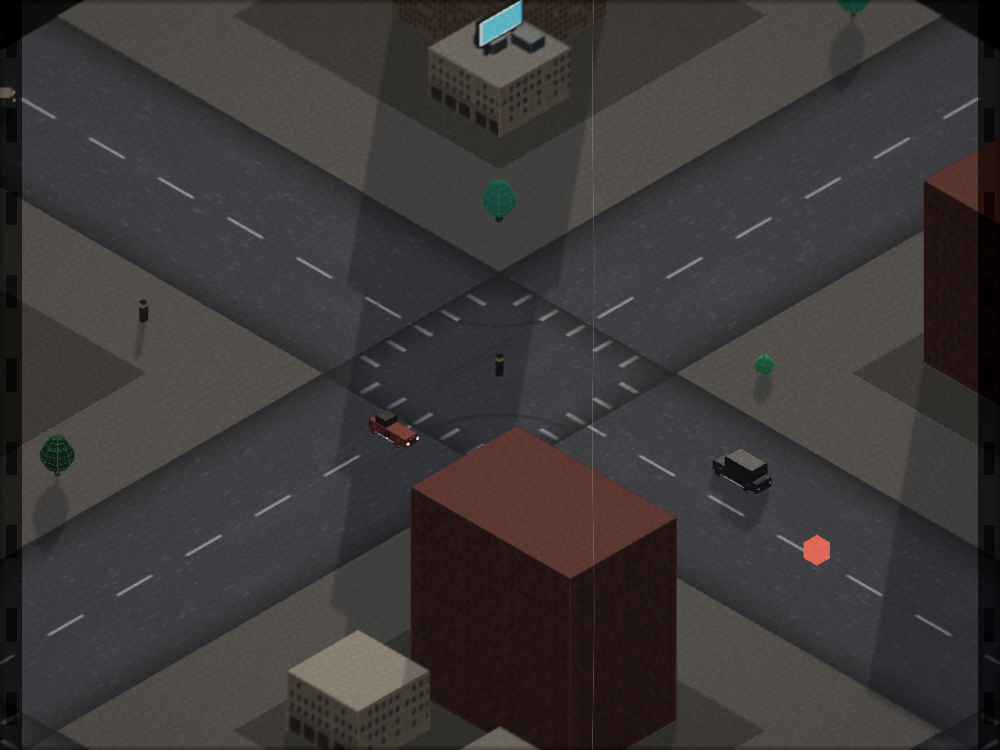
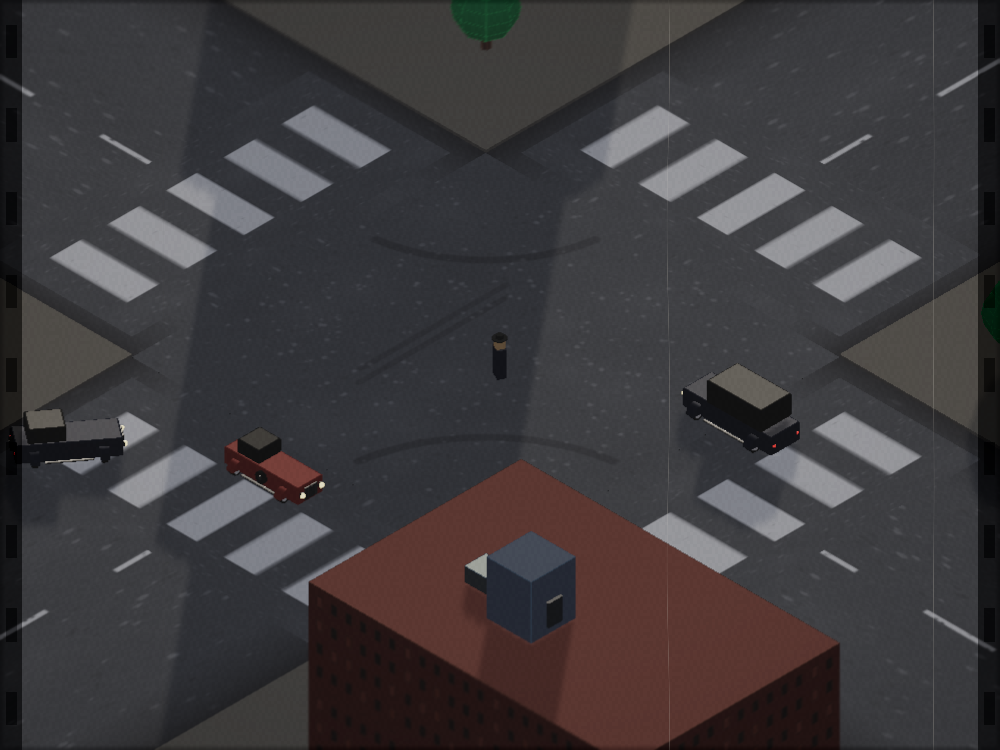
feat: add crosswalk feature and enhance road textures
- Introduced crosswalk creation in RoadBuilder3D for improved pedestrian navigation.
- Updated RoadTextureGenerator to include crosswalk textures and refined existing road textures for better visual fidelity.
- Enhanced tests to validate the addition of crosswalk textures and ensure proper initialization of texture assets.

diff --git a/src/systems/RoadTextureGenerator.js b/src/systems/RoadTextureGenerator.js
@@ -11,11 +11,12 @@ export const RoadTextureGenerator = {
         if (this.textures.size > 0) return;
         this.textures.set('straight', this.createCanvasTexture('straight'));
         this.textures.set('intersection', this.createCanvasTexture('intersection'));
+        this.textures.set('crosswalk', this.createCanvasTexture('crosswalk'));
     },
 
     getTexture(type) {
-        if (this.textures.size === 0) {
-            this.init();
+        if (!this.textures.has(type)) {
+            this.textures.set(type, this.createCanvasTexture(type));
         }
         return this.textures.get(type);
     },
@@ -36,10 +37,12 @@ export const RoadTextureGenerator = {
 
             if (type === 'straight') {
                 this.drawStraightRoad(ctx, true);
-                this.applyAsphaltDirt(ctx, false); // dirt on left/right edges
+                this.applyAsphaltDirt(ctx, false); // curb dirt on left/right only
             } else if (type === 'intersection') {
+                // No edge dirt: all 4 sides connect to roads — keep asphalt uniform
                 this.drawIntersection(ctx);
-                this.applyAsphaltDirt(ctx, true); // dirt on all 4 edges
+            } else if (type === 'crosswalk') {
+                this.drawCrosswalk(ctx);
             }
         }
 
@@ -97,45 +100,51 @@ export const RoadTextureGenerator = {
     },
 
     drawStraightRoad(ctx, isVertical = true) {
+        // Leave clear asphalt near both ends so dashes stop short of intersections
+        // (mirrors 2D Decals clearance). ~18% of a 50 m segment ≈ 9 m gap.
+        const margin = 92;
+        const dashStart = margin;
+        const dashEnd = 512 - margin;
+
         ctx.save();
 
-        // 1. Draw subtle dark outline backing for painted line to pop (contrast drop-shadow)
+        // 1. Dark outline backing for painted line
         ctx.strokeStyle = 'rgba(10, 10, 12, 0.4)';
         ctx.lineWidth = 8;
         ctx.setLineDash([40, 40]);
         ctx.lineDashOffset = 20;
         ctx.beginPath();
         if (isVertical) {
-            ctx.moveTo(257, 0);
-            ctx.lineTo(257, 512);
+            ctx.moveTo(257, dashStart);
+            ctx.lineTo(257, dashEnd);
         } else {
-            ctx.moveTo(0, 257);
-            ctx.lineTo(512, 257);
+            ctx.moveTo(dashStart, 257);
+            ctx.lineTo(dashEnd, 257);
         }
         ctx.stroke();
 
-        // 2. Draw actual off-white dashed line with painted texture feeling
-        ctx.strokeStyle = 'rgba(240, 242, 245, 0.9)'; // Slightly transparent, realistic paint
+        // 2. Off-white dashed centerline
+        ctx.strokeStyle = 'rgba(240, 242, 245, 0.9)';
         ctx.lineWidth = 6;
         ctx.setLineDash([40, 40]);
         ctx.lineDashOffset = 20;
         ctx.beginPath();
         if (isVertical) {
-            ctx.moveTo(256, 0);
-            ctx.lineTo(256, 512);
+            ctx.moveTo(256, dashStart);
+            ctx.lineTo(256, dashEnd);
         } else {
-            ctx.moveTo(0, 256);
-            ctx.lineTo(512, 256);
+            ctx.moveTo(dashStart, 256);
+            ctx.lineTo(dashEnd, 256);
         }
         ctx.stroke();
 
-        // 3. Apply subtle scratches/wear directly on the paint
+        // 3. Paint wear / chipping (only along the dashed span)
         ctx.restore();
         ctx.save();
-        ctx.fillStyle = '#222428'; // Overwrite with asphalt color to simulate paint chipping
+        ctx.fillStyle = '#222428';
         const paintCenter = 256;
         for (let i = 0; i < 40; i++) {
-            const ry = Math.random() * 512;
+            const ry = dashStart + Math.random() * (dashEnd - dashStart);
             const rx = paintCenter + (Math.random() - 0.5) * 8;
             ctx.fillRect(rx, ry, Math.random() < 0.5 ? 2 : 1, Math.random() < 0.5 ? 2 : 1);
         }
@@ -170,54 +179,37 @@ export const RoadTextureGenerator = {
         ctx.stroke();
         ctx.restore();
 
-        // 2. Draw zebras with realistic paint thickness & drop-shadow backing
-        ctx.save();
-        
-        const offsets = [-153.6, -76.8, 0, 76.8, 153.6];
-        const center = 256;
+        // Zebras live on exit-road approaches (RoadBuilder3D), not inside the junction.
+    },
 
-        const drawZebraStripe = (x, y, w, h) => {
-            // Dark backing
+    drawCrosswalk(ctx) {
+        // Transparent-ish asphalt base matching road color, then zebra bars across width
+        ctx.fillStyle = '#222428';
+        ctx.fillRect(0, 0, 512, 512);
+        this.addAsphaltNoise(ctx, 512, 512);
+
+        const stripeCount = 5;
+        const stripeW = 48;
+        const gap = (512 - stripeCount * stripeW) / (stripeCount + 1);
+        const stripeH = 280;
+        const y = (512 - stripeH) / 2;
+
+        for (let i = 0; i < stripeCount; i++) {
+            const x = gap + i * (stripeW + gap);
             ctx.fillStyle = 'rgba(10, 10, 12, 0.4)';
-            ctx.fillRect(x + 1, y + 1, w, h);
-            // Main paint
+            ctx.fillRect(x + 1, y + 1, stripeW, stripeH);
             ctx.fillStyle = 'rgba(240, 242, 245, 0.9)';
-            ctx.fillRect(x, y, w, h);
-            // Paint wear chipping
+            ctx.fillRect(x, y, stripeW, stripeH);
             ctx.fillStyle = '#222428';
-            const chips = Math.floor(2 + Math.random() * 3);
-            for (let c = 0; c < chips; c++) {
-                const cx = x + Math.random() * (w - 2);
-                const cy = y + Math.random() * (h - 2);
-                ctx.fillRect(cx, cy, 1 + Math.random() * 2, 1 + Math.random() * 2);
+            for (let c = 0; c < 4; c++) {
+                ctx.fillRect(
+                    x + Math.random() * (stripeW - 2),
+                    y + Math.random() * (stripeH - 2),
+                    1 + Math.random() * 2,
+                    1 + Math.random() * 2
+                );
             }
-        };
-
-        // North crossing (top)
-        offsets.forEach(dx => {
-            const x = Math.round(center + dx - 5);
-            drawZebraStripe(x, 10, 10, 50);
-        });
-
-        // South crossing (bottom)
-        offsets.forEach(dx => {
-            const x = Math.round(center + dx - 5);
-            drawZebraStripe(x, 512 - 60, 10, 50);
-        });
-
-        // West crossing (left)
-        offsets.forEach(dy => {
-            const y = Math.round(center + dy - 5);
-            drawZebraStripe(10, y, 50, 10);
-        });
-
-        // East crossing (right)
-        offsets.forEach(dy => {
-            const y = Math.round(center + dy - 5);
-            drawZebraStripe(512 - 60, y, 50, 10);
-        });
-
-        ctx.restore();
+        }
     },
 
     applyAsphaltDirt(ctx, allEdges = false) {

diff --git a/src/systems/RoadBuilder3D.js b/src/systems/RoadBuilder3D.js
@@ -12,7 +12,10 @@ export const RoadBuilder3D = {
         const SF = WorldMetrics.SCALE_FACTOR;
         renderSystem.laneMarkings = [];
         const roads = WorldGrid.getStreetCenters();
+        const half = WorldGrid.STREET_WIDTH / 2;
 
+        // Straight corridors stop at block faces (flush with intersection squares).
+        // Lane dashes are inset in the straight texture so they sit on exit roads only.
         roads.forEach(rx => {
             this.createDashedLine(renderSystem, rx * SF, 500 * SF, rx * SF, 1000 * SF, true);
             this.createDashedLine(renderSystem, rx * SF, 1200 * SF, rx * SF, 1700 * SF, true);
@@ -29,6 +32,12 @@ export const RoadBuilder3D = {
         roads.forEach(cx => {
             roads.forEach(cz => {
                 this.createZebra(renderSystem, cx * SF, cz * SF);
+                // Crosswalks on exit approaches (same idea as 2D Decals offset)
+                const approach = half + 50;
+                this.createCrosswalk(renderSystem, cx * SF, (cz - approach) * SF, true);
+                this.createCrosswalk(renderSystem, cx * SF, (cz + approach) * SF, true);
+                this.createCrosswalk(renderSystem, (cx - approach) * SF, cz * SF, false);
+                this.createCrosswalk(renderSystem, (cx + approach) * SF, cz * SF, false);
             });
         });
     },
@@ -85,7 +94,38 @@ export const RoadBuilder3D = {
 
         const mesh = new THREE.Mesh(geom, mat);
         mesh.rotation.x = -Math.PI / 2;
-        mesh.position.set(targetX, 0.002, targetZ);
+        // Slightly above straight overlays to avoid edge z-fight; asphalt matches
+        mesh.position.set(targetX, 0.003, targetZ);
+        mesh.receiveShadow = true;
+
+        renderSystem.scene.add(mesh);
+        renderSystem.zebras.push(mesh);
+    },
+
+    /**
+     * Crosswalk on an exit road just outside the intersection square.
+     * @param {boolean} northSouth - true = bars across E-W travel (on N/S approaches)
+     */
+    createCrosswalk(renderSystem, x, z, northSouth) {
+        const SF = WorldMetrics.SCALE_FACTOR;
+        const roadW = WorldGrid.STREET_WIDTH * SF * 0.9;
+        const depth = 80 * SF;
+
+        // Width across the roadway, depth along the approach (rotate for E/W)
+        const geom = new THREE.PlaneGeometry(roadW, depth);
+        const texture = RoadTextureGenerator.getTexture('crosswalk');
+        const mat = new THREE.MeshStandardMaterial({
+            map: texture,
+            roughness: 0.9,
+            metalness: 0.0
+        });
+
+        const mesh = new THREE.Mesh(geom, mat);
+        mesh.rotation.x = -Math.PI / 2;
+        if (!northSouth) {
+            mesh.rotation.z = Math.PI / 2;
+        }
+        mesh.position.set(x, 0.004, z);
         mesh.receiveShadow = true;
 
         renderSystem.scene.add(mesh);

diff --git a/src/systems/RoadTextureGenerator.test.js b/src/systems/RoadTextureGenerator.test.js
@@ -9,9 +9,10 @@ describe('RoadTextureGenerator', () => {
 
     it('should initialize and populate textures', () => {
         RoadTextureGenerator.init();
-        expect(RoadTextureGenerator.textures.size).toBe(2);
+        expect(RoadTextureGenerator.textures.size).toBe(3);
         expect(RoadTextureGenerator.textures.has('straight')).toBe(true);
         expect(RoadTextureGenerator.textures.has('intersection')).toBe(true);
+        expect(RoadTextureGenerator.textures.has('crosswalk')).toBe(true);
     });
 
     it('should create valid THREE.CanvasTexture objects via getTexture', () => {
